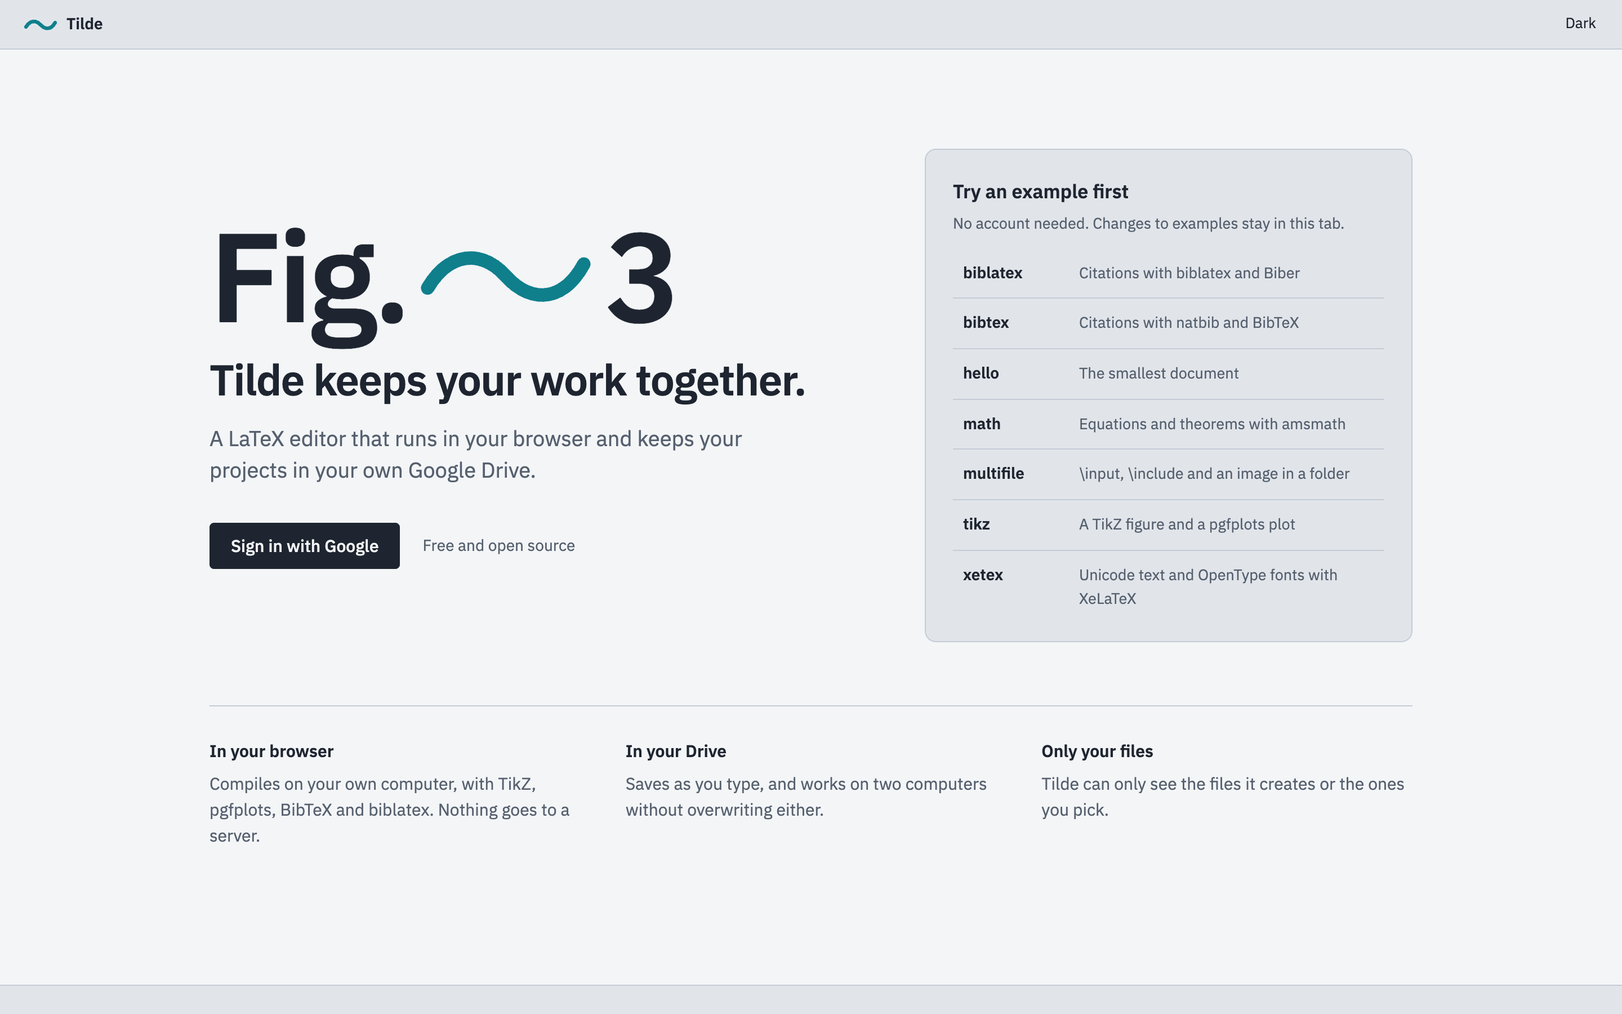
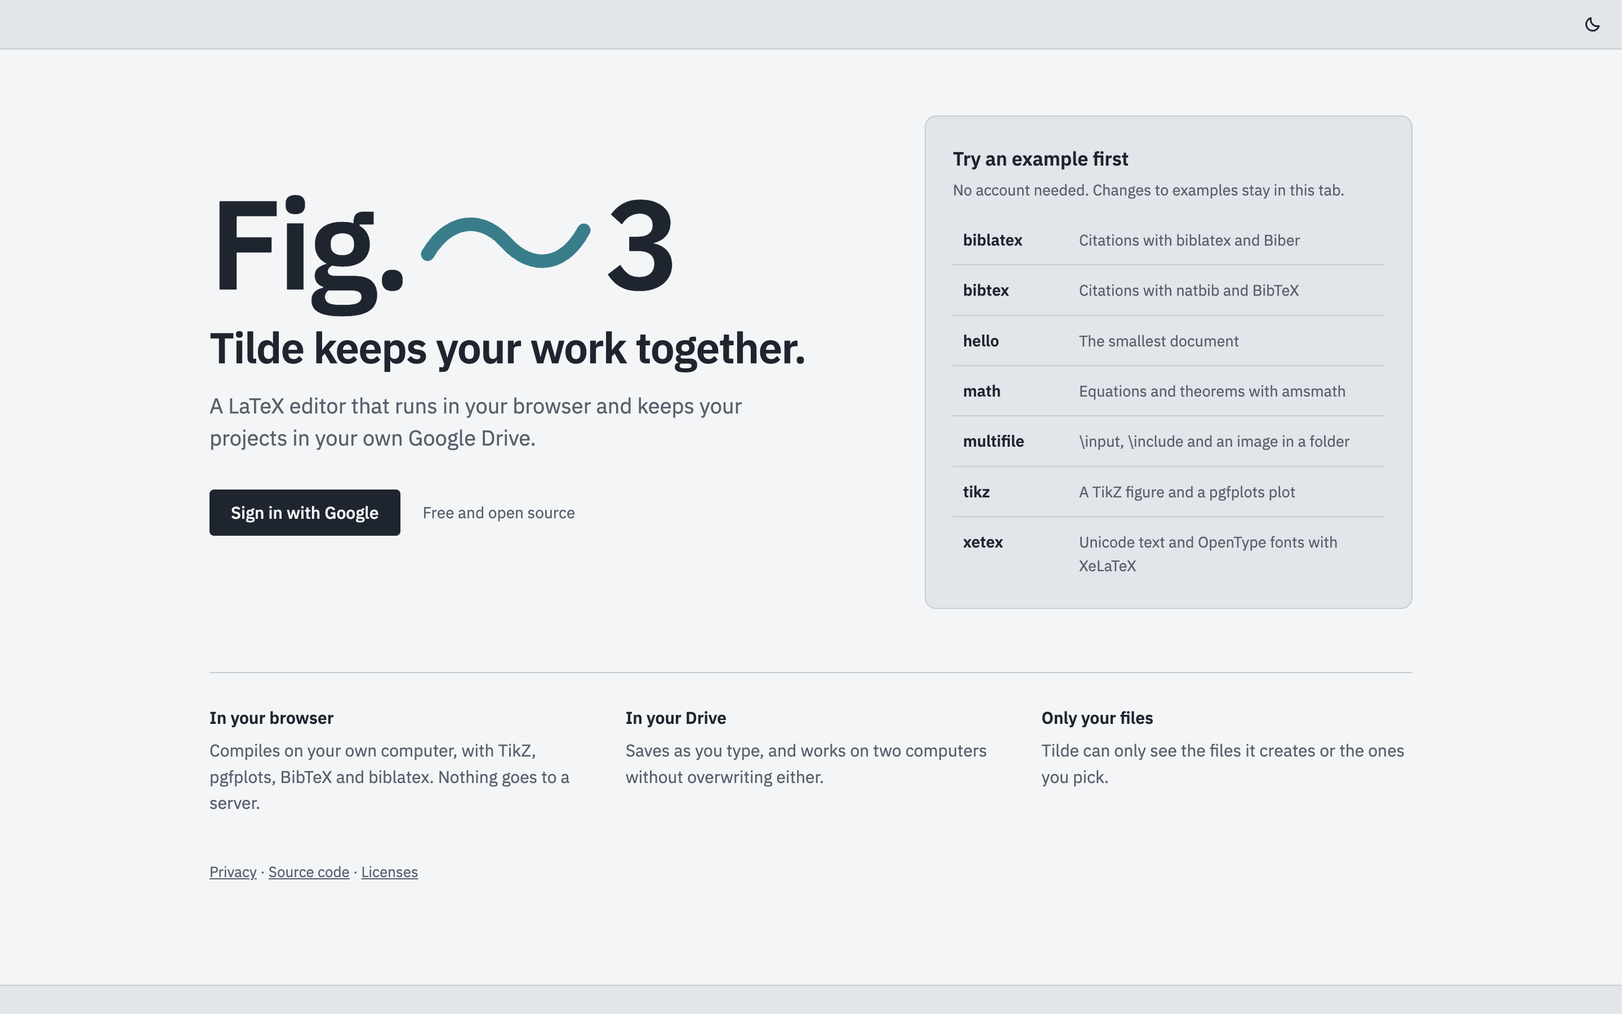
Final design pass, and new screenshots of eight scenarios
- Fixed: the dotted frame around the focused editor; pane-header and status
  bar buttons of one height; drawn, centred arrows (Update PDF, Fit width,
  Import, the project name); menus with a tick column and real headings;
  the project list's status bar shows only saving; the project name goes
  back to the project from the list; one tilde on the welcome page; no
  second x in Go to anything; one-row PDF toolbar on phones
- The panes re-arrange whenever their width changes, not only on "resize"
- README: the editor, welcome, New project, writing with folded panes and
  the maths preview, Go to anything, an error, and a phone, light and dark,
  all from the built-in examples

diff --git a/src/style.css b/src/style.css
@@ -116,8 +116,8 @@ button.large { padding: 8px 18px; font-size: 15px; }
    it spins while updating. The arrow beside it holds "Compile as you type". */
 .compile-box { display: flex; }
 #pdf-toolbar #compile { display: flex; align-items: center; gap: 7px; padding: 0 10px; border-radius: 4px 0 0 4px; color: var(--ink); font-weight: 500; background: var(--editor); }
-#pdf-toolbar #compile-menu { width: 24px; padding: 0; margin-left: -1px; border-radius: 0 4px 4px 0; background: var(--editor); }
-#pdf-toolbar #compile-menu .chevron { margin: 0 0 3px; }
+#pdf-toolbar #compile-menu { display: grid; place-items: center; width: 24px; padding: 0; margin-left: -1px; border-radius: 0 4px 4px 0; background: var(--editor); }
+#pdf-toolbar #compile-menu svg { display: block; }
 #compile[aria-busy='true'] { cursor: progress; }
 /* The refresh icon carries the dot at its corner, and turns while updating. */
 .update-icon { position: relative; display: grid; place-items: center; }
@@ -131,6 +131,8 @@ button.large { padding: 8px 18px; font-size: 15px; }
 /* In a narrow PDF pane, Update PDF is its icon alone. */
 #preview { container-type: inline-size; }
 @container (max-width: 470px) { #compile-label { display: none; } #pdf-toolbar #compile { padding: 0 8px; } }
+/* On a phone, the toolbar keeps one row: the size menu and "show the cursor's line" go (− and + stay). */
+@container (max-width: 360px) { #pdf-toolbar #zoom-menu, #pdf-toolbar #show-in-pdf { display: none; } }
 #preview { position: relative; }
 #preview.compiling::before {
   content: ''; position: absolute; z-index: 2; top: 0; left: 0; height: 2px; width: 30%; background: var(--teal);
@@ -216,7 +218,7 @@ body.resizing iframe, body.resizing canvas { pointer-events: none; }
 #side > .side-head { padding: 0 6px 0 14px; }
 #editor-head { display: flex; align-items: center; justify-content: space-between; gap: 8px; padding: 0 6px 0 14px; background: var(--chrome); color: var(--muted); font-size: 12.5px; }
 #editor-path { min-width: 0; overflow: hidden; text-overflow: ellipsis; white-space: nowrap; }
-#editor-head button, #fold-pdf { display: grid; place-items: center; width: 26px; height: 24px; padding: 0; }
+#editor-head button, #fold-pdf { display: grid; place-items: center; width: 28px; height: 28px; padding: 0; }
 /* A folded pane: a slim strip with its icon and name; a click brings it back. */
 .rail {
   display: flex; flex-direction: column; align-items: center; justify-content: flex-start; gap: 10px; align-self: stretch; height: auto; min-width: 0; padding: 12px 0;
@@ -231,7 +233,7 @@ body.resizing iframe, body.resizing canvas { pointer-events: none; }
 .side-head button { padding: 0 7px; font-size: 16px; line-height: 22px; }
 .side-actions { display: flex; align-items: center; gap: 2px; }
 /* Three icons of one size, centred the same way, so they sit on one line. */
-.side-actions button { display: grid; place-items: center; width: 26px; height: 24px; padding: 0; }
+.side-actions button { display: grid; place-items: center; width: 28px; height: 28px; padding: 0; }
 .side-actions button svg { display: block; }
 
 #tree { flex: 1; overflow: auto; padding: 2px 6px 12px; font-size: 13.5px; }
@@ -384,7 +386,7 @@ body.resizing iframe, body.resizing canvas { pointer-events: none; }
   font-variant-numeric: tabular-nums;
 }
 #statusbar > * { padding: 0 8px; white-space: nowrap; }
-#statusbar button { border: none; background: none; padding: 1px 8px; color: inherit; }
+#statusbar button { height: 20px; border: none; background: none; padding: 0 8px; color: inherit; }
 #statusbar button:hover:enabled { background: var(--hover); }
 #statusbar #toggle-log { display: grid; place-items: center; }
 #statusbar #toggle-log svg { display: block; width: 15px; height: 15px; }
@@ -419,6 +421,10 @@ body.resizing iframe, body.resizing canvas { pointer-events: none; }
 }
 .menu button { display: block; width: 100%; text-align: left; border: none; background: none; padding: 5px 10px; border-radius: 3px; white-space: nowrap; }
 .menu button:hover:enabled, .menu button:focus-visible { background: var(--hover); outline: none; }
+.menu button:has(.tick) { display: flex; align-items: center; gap: 6px; padding-left: 6px; }
+.menu .tick { display: grid; place-items: center; flex: none; width: 16px; height: 16px; color: var(--teal); }
+.menu-heading { padding: 5px 10px 3px; color: var(--muted); font-size: 12px; }
+.menu:has(.tick) .menu-heading { padding-left: 28px; } /* in line with the labels, past the ticks */
 
 /* Dialogs */
 
@@ -447,6 +453,7 @@ dialog.wide { width: min(700px, 94vw); max-width: none; padding: 24px 28px; }
 
 /* "Go to anything" (Ctrl/Cmd+K): a search box near the top, results in groups below. */
 #goto-dialog { width: min(640px, 94vw); max-width: none; margin: 12vh auto auto; padding: 0; overflow: hidden; }
+#goto-input::-webkit-search-cancel-button { display: none; } /* Escape closes the box; no second × */
 #goto-input { width: 100%; box-sizing: border-box; padding: 14px 16px; border: none; border-bottom: 1px solid var(--rule); border-radius: 0; background: transparent; font-size: 16px; outline: none; }
 #goto-results { list-style: none; margin: 0; padding: 4px 6px 6px; max-height: min(52vh, 460px); overflow: auto; }
 .goto-group { padding: 10px 10px 3px; color: var(--muted); font-size: 12px; font-weight: 600; }
@@ -565,8 +572,11 @@ dialog.starters { width: min(880px, 94vw); }
 /* The welcome has its own sign-in button, and nothing to show in the status
    bar or behind the project switcher. */
 body.on-welcome #sign-in, body.on-welcome #show-projects .switch { display: none; }
+/* The welcome page draws the tilde large itself. */
+body.on-welcome #home { visibility: hidden; }
 body.on-welcome #status, body.on-welcome #toggle-log { visibility: hidden; }
-body.on-projects #editor-look { visibility: hidden; } /* text size is for the editor */
+/* On the project list, the status bar keeps only whether the open project is saved. */
+body.on-projects :is(#editor-look, #toggle-log, #cursor-position, #word-count, #problem-count, #status) { visibility: hidden; }
 
 /* "Back to editor": a small floating button at the bottom of the page. */
 #back-bar { position: sticky; bottom: 20px; display: flex; justify-content: center; pointer-events: none; }
@@ -602,6 +612,9 @@ button.link:focus-visible { outline: 2px solid var(--teal); outline-offset: 2px;
   border: 1px solid var(--rule); border-radius: 4px; background: var(--editor); color: var(--ink);
 }
 .sort select:hover, .select-box select:hover { background: var(--hover); }
+/* A drawn arrow after a label ("Fit width", "Import", the project's name), centred with it. */
+.arrow { display: inline-block; flex: none; vertical-align: middle; margin-left: 4px; opacity: 0.75; }
+#zoom-menu, #import-menu { display: inline-flex; align-items: center; }
 /* One small arrow for every menu-like control ("Import", the project
    switcher, the Sort box), drawn the same way everywhere. */
 .chevron {

diff --git a/index.html b/index.html
@@ -27,7 +27,7 @@
       <div class="left">
         <button id="show-projects" title="Your projects" hidden>
           <span id="project-name"></span>
-          <span class="switch chevron" aria-hidden="true"></span>
+          <svg class="arrow switch" viewBox="0 0 16 16" width="12" height="12" aria-hidden="true" fill="none" stroke="currentColor" stroke-width="1.6" stroke-linecap="round" stroke-linejoin="round"><path d="M5 6.5 8 9.5l3-3"/></svg>
         </button>
       </div>
       <div class="center">
@@ -113,7 +113,7 @@
               </p>
             </div>
             <div class="head-actions">
-              <button id="import-menu" aria-haspopup="menu" title="Start a project from files you already have">Import <span class="chevron" aria-hidden="true"></span></button>
+              <button id="import-menu" aria-haspopup="menu" title="Start a project from files you already have">Import <svg class="arrow" viewBox="0 0 16 16" width="12" height="12" aria-hidden="true" fill="none" stroke="currentColor" stroke-width="1.6" stroke-linecap="round" stroke-linejoin="round"><path d="M5 6.5 8 9.5l3-3"/></svg></button>
               <button id="new-project" class="primary">New project</button>
             </div>
           </div>
@@ -193,11 +193,11 @@
           <!-- Update PDF, with a dot that says whether the PDF matches the source. -->
           <div class="compile-box" role="group" aria-label="Update the PDF">
             <button id="compile" title="Update the PDF (Ctrl/Cmd+S)" aria-label="Update PDF"><span class="update-icon"><svg viewBox="0 0 16 16" width="16" height="16" aria-hidden="true" fill="none" stroke="currentColor" stroke-width="1.5" stroke-linecap="round" stroke-linejoin="round"><path d="M13 8a5 5 0 0 1-8.6 3.5M3 8a5 5 0 0 1 8.6-3.5M11.75 1.75v2.9h-2.9M4.25 14.25v-2.9h2.9"/></svg><span id="freshness" aria-hidden="true"></span></span><span id="compile-label">Update PDF</span></button>
-            <button id="compile-menu" aria-haspopup="menu" title="Compile options" aria-label="Compile options"><span class="chevron" aria-hidden="true"></span></button>
+            <button id="compile-menu" aria-haspopup="menu" title="Compile options" aria-label="Compile options"><svg viewBox="0 0 16 16" width="16" height="16" aria-hidden="true" fill="none" stroke="currentColor" stroke-width="1.5" stroke-linecap="round" stroke-linejoin="round"><path d="M5 6.5 8 9.5l3-3"/></svg></button>
           </div>
           <div class="group" role="group" aria-label="Zoom">
             <button id="zoom-out" class="quiet square" title="Zoom out (Ctrl/Cmd and −)" aria-label="Zoom out"><svg viewBox="0 0 16 16" width="16" height="16" aria-hidden="true" fill="none" stroke="currentColor" stroke-width="1.5" stroke-linecap="round" stroke-linejoin="round"><path d="M3.5 8h9"/></svg></button>
-            <button id="zoom-menu" class="quiet" aria-haspopup="menu" title="Choose a size"><span id="zoom-label">Fit width</span><span class="chevron" aria-hidden="true"></span></button>
+            <button id="zoom-menu" class="quiet" aria-haspopup="menu" title="Choose a size"><span id="zoom-label">Fit width</span><svg class="arrow" viewBox="0 0 16 16" width="12" height="12" aria-hidden="true" fill="none" stroke="currentColor" stroke-width="1.6" stroke-linecap="round" stroke-linejoin="round"><path d="M5 6.5 8 9.5l3-3"/></svg></button>
             <button id="zoom-in" class="quiet square" title="Zoom in (Ctrl/Cmd and +)" aria-label="Zoom in"><svg viewBox="0 0 16 16" width="16" height="16" aria-hidden="true" fill="none" stroke="currentColor" stroke-width="1.5" stroke-linecap="round" stroke-linejoin="round"><path d="M8 3.5v9M3.5 8h9"/></svg></button>
           </div>
           <label class="page-nav" id="page-nav" title="Page: type a number and press Enter to go there" hidden>
@@ -206,7 +206,7 @@
           </label>
           <div class="group">
             <button id="show-in-pdf" class="quiet square" title="Show the cursor's line in the PDF (Ctrl/Cmd+Shift+Enter). Double-click the PDF to jump back to the source." aria-label="Show the cursor's line in the PDF" disabled>
-              <svg viewBox="0 0 16 16" width="15" height="15" aria-hidden="true" fill="none" stroke="currentColor" stroke-width="1.5" stroke-linecap="round"><circle cx="8" cy="8" r="4.5"/><circle cx="8" cy="8" r="1" fill="currentColor" stroke="none"/><path d="M8 1v2.5M8 12.5V15M1 8h2.5M12.5 8H15"/></svg>
+              <svg viewBox="0 0 16 16" width="16" height="16" aria-hidden="true" fill="none" stroke="currentColor" stroke-width="1.5" stroke-linecap="round"><circle cx="8" cy="8" r="4.5"/><circle cx="8" cy="8" r="1" fill="currentColor" stroke="none"/><path d="M8 1v2.5M8 12.5V15M1 8h2.5M12.5 8H15"/></svg>
             </button>
             <button id="share-pdf" class="quiet square" title="Share the PDF by link" aria-label="Share the PDF by link" aria-haspopup="menu" disabled hidden><svg viewBox="0 0 16 16" width="16" height="16" aria-hidden="true" fill="none" stroke="currentColor" stroke-width="1.5" stroke-linecap="round" stroke-linejoin="round"><path d="M6.75 9.25 9.25 6.75M7 4.75l1.25-1.25a2.5 2.5 0 0 1 3.5 3.5L10.5 8.25M9 11.25 7.75 12.5a2.5 2.5 0 0 1-3.5-3.5L5.5 7.75"/></svg></button>
             <button id="download-pdf" class="quiet square" title="Download the PDF" aria-label="Download the PDF" disabled><svg viewBox="0 0 16 16" width="16" height="16" aria-hidden="true" fill="none" stroke="currentColor" stroke-width="1.5" stroke-linecap="round" stroke-linejoin="round"><path d="M8 2.5v7.5M4.75 7 8 10.25 11.25 7M3 12.5v1h10v-1"/></svg></button>

diff --git a/src/main.ts b/src/main.ts
@@ -2685,7 +2685,7 @@ pageNumber.addEventListener('focus', () => pageNumber.select());
 // The arrow next to Update PDF: compiling as you type.
 element<HTMLButtonElement>('#compile-menu').addEventListener('click', (event) => openMenu(event.currentTarget as HTMLElement, [
   { label: 'Update the PDF now (Ctrl/Cmd+S)', action: () => void compile() },
-  { label: autoCompile ? '✓ Compile as you type' : 'Compile as you type', action: () => {
+  { label: 'Compile as you type', checked: autoCompile, action: () => {
     autoCompile = !autoCompile;
     try { localStorage.setItem(AUTO_COMPILE_KEY, String(autoCompile)); } catch { /* not remembered */ }
     notify(autoCompile ? 'The PDF now updates a moment after you stop typing.' : 'The PDF updates when you press Update PDF or Ctrl/Cmd+S.');
@@ -2730,11 +2730,11 @@ function stepEditorSize(direction: number): void {
 }
 
 editorLookButton.addEventListener('click', () => openMenu(editorLookButton, [
-  { label: `Text size: ${editorSize} px`, action: () => {}, disabled: true },
+  { label: `Text size: ${editorSize} px` },
   { label: 'Larger text (Ctrl/Cmd +)', action: () => stepEditorSize(1), disabled: editorSize === EDITOR_SIZES.at(-1) },
   { label: 'Smaller text (Ctrl/Cmd −)', action: () => stepEditorSize(-1), disabled: editorSize === EDITOR_SIZES[0] },
   { label: `Usual size (${DEFAULT_EDITOR_SIZE} px)`, action: () => stepEditorSize(0), disabled: editorSize === DEFAULT_EDITOR_SIZE },
-  { label: wrapLines ? '✓ Wrap long lines' : 'Wrap long lines', action: () => { wrapLines = !wrapLines; applyEditorLook(); } },
+  { label: 'Wrap long lines', checked: wrapLines, action: () => { wrapLines = !wrapLines; applyEditorLook(); } },
 ]));
 applyEditorLook();
 window.addEventListener('keydown', (event) => {
@@ -2831,7 +2831,8 @@ side.addEventListener('drop', (event) => {
 });
 syncButton.addEventListener('click', showConflict);
 logButton.addEventListener('click', () => { logView.hidden = !logView.hidden; });
-projectsButton.addEventListener('click', () => showProjectsPage(true));
+// The project's name: to the project list, or back to the project from there.
+projectsButton.addEventListener('click', () => showProjectsPage(projectsPage.hidden === true));
 element<HTMLButtonElement>('#home').addEventListener('click', () => showProjectsPage(true));
 closeProjectsButton.addEventListener('click', () => showProjectsPage(false));
 // Esc on the project page goes back to the open project (dialogs and menus close first).
@@ -2859,7 +2860,7 @@ zipInput.addEventListener('change', () => {
 });
 signInButton.addEventListener('click', () => void handleSignIn());
 accountButton.addEventListener('click', () => openMenu(accountButton, [
-  { label: myName, action: () => {}, disabled: true },
+  { label: myName },
   { label: 'Sign out', action: () => void handleSignOut() },
 ]));
 newProjectButton.addEventListener('click', () => {

diff --git a/src/menu.ts b/src/menu.ts
@@ -4,10 +4,13 @@
 
 export interface MenuItem {
   label: string;
-  action: () => void;
+  action?: () => void; // none: a heading, not a choice
   danger?: boolean;
   disabled?: boolean;
+  checked?: boolean; // an on/off choice: a tick when on, in a column of its own
 }
+
+const TICK = '<svg viewBox="0 0 16 16" width="14" height="14" aria-hidden="true" fill="none" stroke="currentColor" stroke-width="1.6" stroke-linecap="round" stroke-linejoin="round"><path d="M3.5 8.5l3 3 6-7"/></svg>';
 
 let open: HTMLElement | null = null;
 
@@ -17,15 +20,32 @@ export function openMenu(anchor: HTMLElement, items: MenuItem[]): void {
   menu.className = 'menu';
   menu.popover = 'auto';
   menu.setAttribute('role', 'menu');
+  // With on/off choices in it, every item leaves room for the tick, so the labels line up.
+  const ticks = items.some((item) => item.checked !== undefined);
   for (const item of items) {
+    if (!item.action) {
+      const heading = document.createElement('div');
+      heading.className = 'menu-heading';
+      heading.textContent = item.label;
+      menu.append(heading);
+      continue;
+    }
+    const action = item.action;
     const button = document.createElement('button');
-    button.textContent = item.label;
-    button.setAttribute('role', 'menuitem');
+    button.setAttribute('role', item.checked === undefined ? 'menuitem' : 'menuitemcheckbox');
+    if (item.checked !== undefined) button.setAttribute('aria-checked', String(item.checked));
+    if (ticks) {
+      const tick = document.createElement('span');
+      tick.className = 'tick';
+      if (item.checked) tick.innerHTML = TICK; // Tilde's own fixed drawing
+      button.append(tick);
+    }
+    button.append(item.label);
     button.disabled = item.disabled ?? false;
     if (item.danger) button.classList.add('danger');
     button.addEventListener('click', () => {
       menu.hidePopover();
-      item.action();
+      action();
     });
     menu.append(button);
   }

diff --git a/src/layout.ts b/src/layout.ts
@@ -119,7 +119,14 @@ export function initLayout(elements: LayoutElements): LayoutControl {
     elements.rails[pane].addEventListener('click', () => set(pane, true));
     elements.folds[pane].addEventListener('click', () => set(pane, false));
   }
-  window.addEventListener('resize', apply);
+  // Whenever the workspace changes width (a resized window, a rotated phone), not only on "resize" events.
+  let lastWidth = 0;
+  new ResizeObserver(() => {
+    const width = elements.workspace.clientWidth;
+    if (width === lastWidth) return;
+    lastWidth = width;
+    apply();
+  }).observe(elements.workspace);
 
   // Dragging a handle. Double-click puts it back where it started.
   const drag = (handle: HTMLElement, onMove: (x: number) => void, reset: () => void): void => {

diff --git a/src/editor.ts b/src/editor.ts
@@ -39,6 +39,7 @@ const latexColours = HighlightStyle.define([
 
 const look = EditorView.theme({
   '&': { height: '100%', backgroundColor: 'var(--editor)', color: 'var(--ink)', fontSize: 'var(--editor-size, 14px)' },
+  '&.cm-focused': { outline: 'none' }, // CodeMirror's dotted frame; the cursor shows where you type
   '.cm-scroller': { fontFamily: 'var(--mono)', lineHeight: '1.6' },
   '.cm-content': { caretColor: 'var(--ink)', paddingBlock: '10px' },
   '.cm-cursor, .cm-dropCursor': { borderLeftColor: 'var(--ink)' },

diff --git a/README.md b/README.md
@@ -17,7 +17,7 @@
 <p align="center">
   <picture>
     <source media="(prefers-color-scheme: dark)" srcset="docs/screenshots/editor-dark.png">
-    <img src="docs/screenshots/editor-light.png" alt="Tilde with a CVPR paper from the official author kit: the kit's files and the outline on the left, the introduction in the middle, and the compiled two-column PDF with review line numbers on the right" width="900">
+    <img src="docs/screenshots/editor-light.png" alt="Tilde with the TikZ example: the files and the outline on the left, the source in the middle with the cursor in a TikZ figure, and on the right the compiled PDF with a TikZ figure and a pgfplots plot; the green dot on Update PDF says the PDF matches the source" width="900">
   </picture>
 </p>
 
@@ -56,6 +56,20 @@ It covers what a researcher writing a paper, a thesis or TikZ figures needs, wit
 - Panes you can resize (files, source, PDF), each with a header whose button folds it into a slim strip at the side; click the strip to bring it back. In a narrow window one pane shows at a time and the others wait as strips
 - The editor's text size (Ctrl/Cmd and + or − while typing, or "Aa" in the status bar) and whether long lines wrap, remembered in your browser
 
+<p align="center">
+  <picture>
+    <source media="(prefers-color-scheme: dark)" srcset="docs/screenshots/writing-dark.png">
+    <img src="docs/screenshots/writing-light.png" alt="Writing with the files and the PDF folded into slim strips at the sides, the source using the whole width, and the maths preview showing an align block typeset where the pointer rests; the green dot on the PDF strip says the PDF is up to date" width="900">
+  </picture>
+</p>
+
+<p align="center">
+  <picture>
+    <source media="(prefers-color-scheme: dark)" srcset="docs/screenshots/goto-dark.png">
+    <img src="docs/screenshots/goto-light.png" alt="Go to anything (Ctrl/Cmd+K) after typing res: a file, a heading, a label and lines of text from every file of the project, in groups, with the matches marked" width="900">
+  </picture>
+</p>
+
 **Compiling**
 - pdfLaTeX, XeLaTeX and LuaLaTeX from TeX Live 2026, running in your browser (WebAssembly). Tilde picks XeLaTeX by itself when a project loads `fontspec`, `polyglossia` or `unicode-math`, and LuaLaTeX when it runs Lua (`luacode`, `\directlua`); a line `% !TEX program = lualatex` (or `xelatex`, `pdflatex`) in the main file chooses one
 - Unicode text with XeLaTeX (Greek, Cyrillic, Arabic with `polyglossia`, Chinese with `xeCJK`), in the OpenType fonts that come with TeX Live (TeX Gyre, Libertinus, Noto, Amiri, Fandol and more) or in your own: upload the `.otf` or `.ttf` file, or in Chrome and Edge use "+" → "Add a font from this computer"
@@ -71,6 +85,24 @@ It covers what a researcher writing a paper, a thesis or TikZ figures needs, wit
 - PDF zoom (fit width, fit page or a size), page numbers, and Download PDF
 - Share the PDF by link: Share PDF above the PDF saves it in the project's Drive folder and copies a link anyone can open, without an account (a supervisor, a reviewer). Update it to a newer PDF behind the same link, or stop sharing it
 - Download for arXiv: in the project's ⋯ menu. Tilde compiles once more, then saves a `.zip` with your source and the compiled bibliography (`.bbl`), which arXiv and most journals ask for, without build files, and if you like without `%` comments (arXiv shows your source to everyone)
+
+<p align="center">
+  <picture>
+    <source media="(prefers-color-scheme: dark)" srcset="docs/screenshots/error-dark.png">
+    <img src="docs/screenshots/error-light.png" alt="An error: a misspelt command (\textbff) underlined in the source with its message where the pointer rests and an icon at the line number, the red dot on Update PDF, the PDF from before the error still shown, and the problems list below it" width="900">
+  </picture>
+</p>
+
+<p align="center">
+  <picture>
+    <source media="(prefers-color-scheme: dark)" srcset="docs/screenshots/phone-editor-dark.png">
+    <img src="docs/screenshots/phone-editor-light.png" alt="Tilde on a phone: the source fills the screen, the files and the PDF wait as strips at the sides" width="260">
+  </picture>
+  <picture>
+    <source media="(prefers-color-scheme: dark)" srcset="docs/screenshots/phone-pdf-dark.png">
+    <img src="docs/screenshots/phone-pdf-light.png" alt="Tilde on a phone: the PDF fills the screen, the files and the source wait as strips on the left" width="260">
+  </picture>
+</p>
 
 **Saving**
 - Autosave to your Google Drive a few seconds after you stop typing
